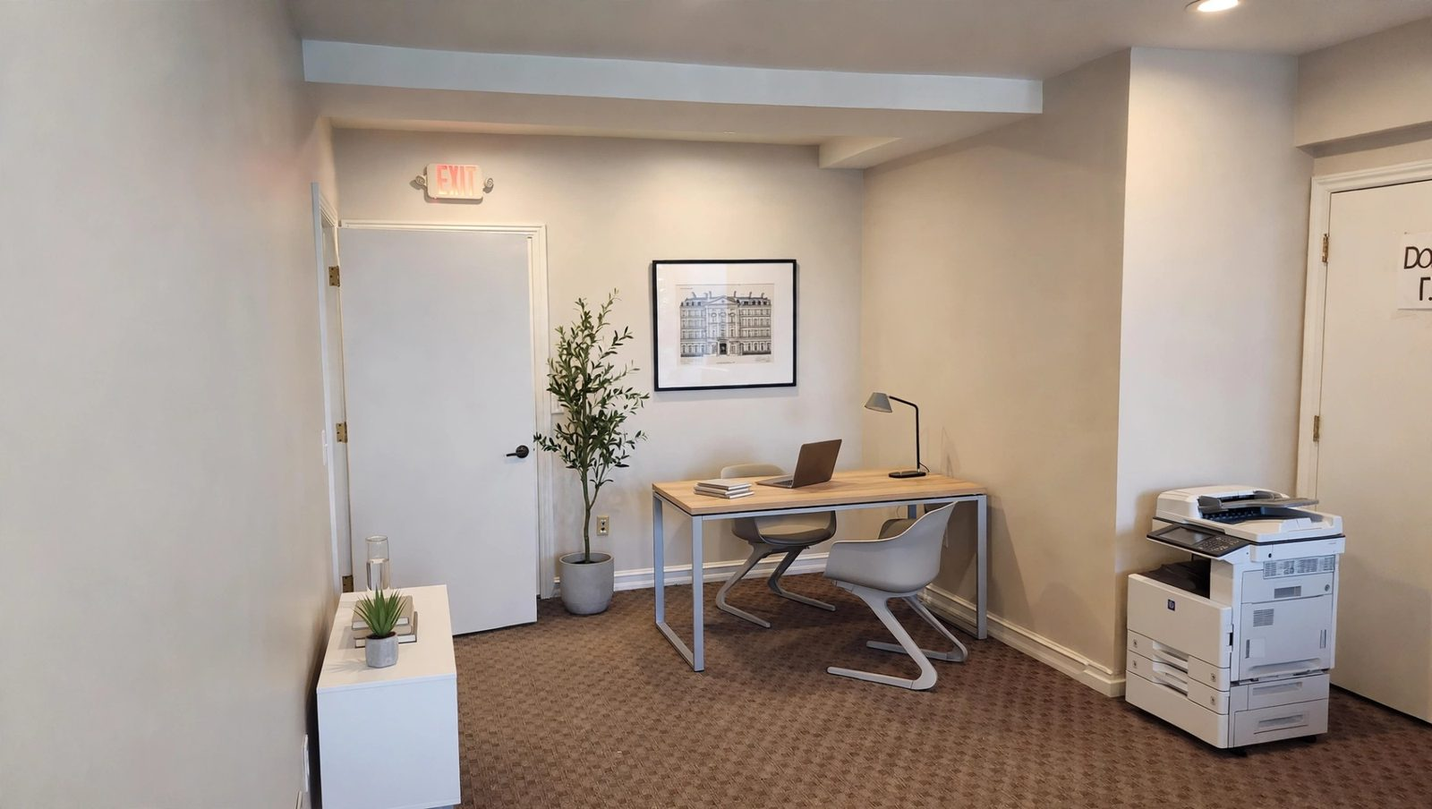
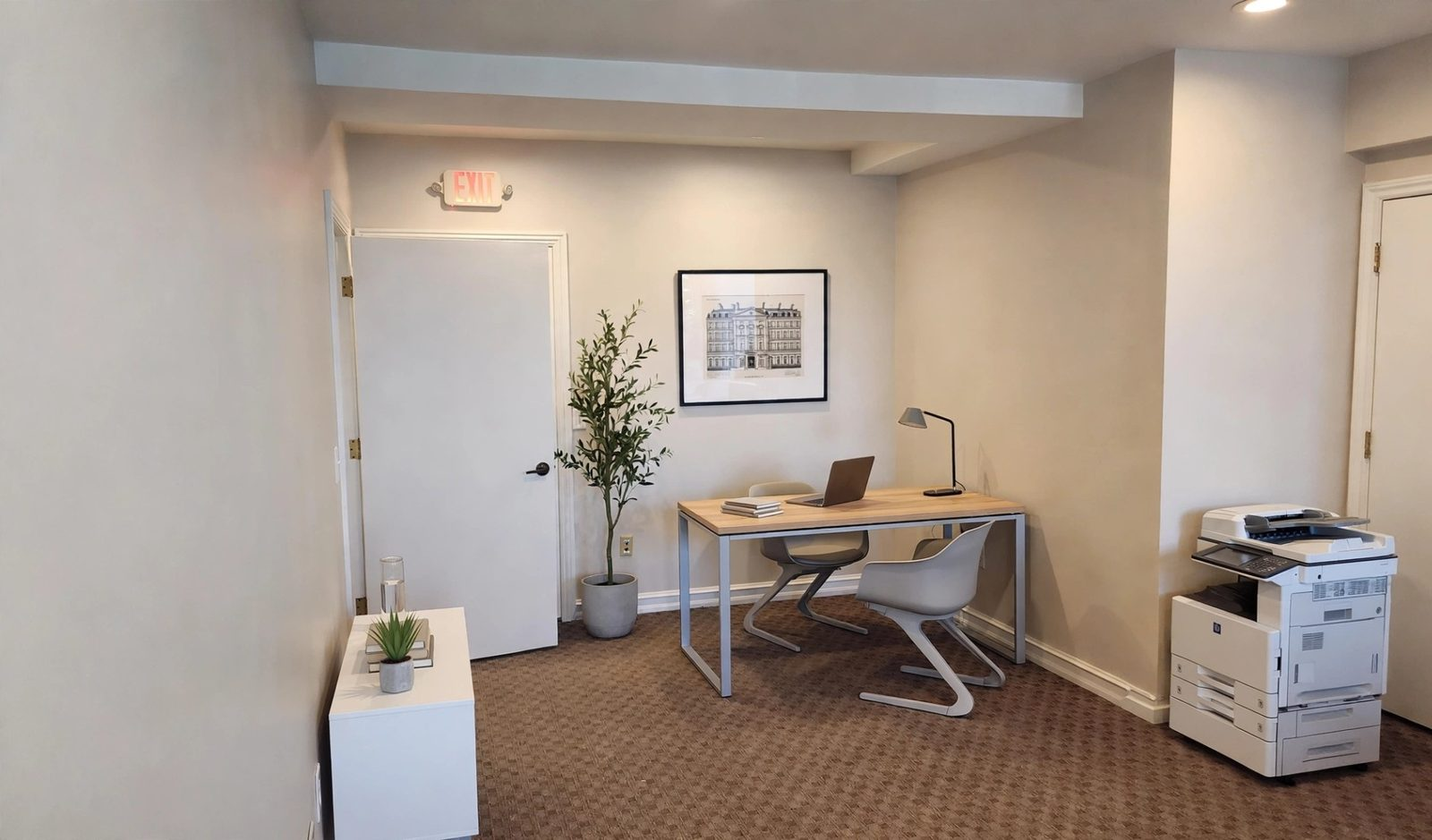
Update live site files

diff --git a/suite-101/index.html b/suite-101/index.html
@@ -22,7 +22,7 @@
   <link rel="icon" type="image/png" sizes="32x32" href="../assets/favicon.png">
   <link rel="icon" type="image/png" sizes="192x192" href="../assets/favicon-192.png">
   <link rel="apple-touch-icon" href="../assets/apple-touch-icon.png">
-  <link rel="stylesheet" href="../styles.css?v=f8975330">
+  <link rel="stylesheet" href="../styles.css?v=e3018876">
   <script type="application/ld+json">{"@context":"https://schema.org","@type":"BreadcrumbList","itemListElement":[{"@type":"ListItem","position":1,"name":"Home","item":"https://centralerealty.com/"},{"@type":"ListItem","position":2,"name":"Suite 101 Office Space For Lease","item":"https://centralerealty.com/suite-101/"}]}</script>
   <style>.prose{max-width:1100px}.s101-vids{margin:1rem 0 2rem}.s101-vids figure{margin:0 0 2rem}.s101-vids video{display:block;width:100%;height:auto;aspect-ratio:16/9;background:#000}.s101-vids figcaption{text-align:center;color:var(--muted);font-size:.85rem;margin-top:.6rem}</style>
   <script type="application/ld+json">{"@context":"https://schema.org","@type":"RealEstateListing","name":"Suite 101 Office Space For Lease, 2490 Walton Boulevard, Rochester Hills","url":"https://centralerealty.com/suite-101/","description":"956 sq ft lower-level office/medical suite for lease at 2490 Walton Boulevard, Rochester Hills, Michigan. Modified gross lease.","image":"https://centralerealty.com/assets/images/suite-101-building-wide.jpg"}</script>
@@ -40,7 +40,7 @@
     </div>
   </header>
   <main id="main">
-    <section class="hero page-hero" aria-labelledby="page-title"><div class="slides" data-n="16"><img src="../assets/images/suite-101-building-wide.jpg" alt="Two-storey brick and stone office building at 2490 Walton Boulevard" width="1600" height="686" fetchpriority="high"><img src="../assets/images/suite-101-staged-rh-desks.jpg" alt="Suite 101 open workspace, virtually staged with oak desks and a lounge area; furniture not included" width="1600" height="686" loading="lazy"><img src="../assets/images/suite-101-photo-1.jpg" alt="Suite 101 open workspace" width="1600" height="686" loading="lazy"><img src="../assets/images/suite-101-staged-boucle.jpg" alt="Suite 101 open workspace, virtually staged as a meeting area; furniture not included" width="1600" height="686" loading="lazy"><img src="../assets/images/suite-101-photo-3.jpg" alt="Suite 101 main room" width="1600" height="686" loading="lazy"><img src="../assets/images/suite-101-staged-leather.jpg" alt="Suite 101 open workspace, virtually staged with a conference table; furniture not included" width="1600" height="686" loading="lazy"><img src="../assets/images/suite-101-photo-5.jpg" alt="French doors opening to a carpeted conference room in Suite 101" width="1600" height="686" loading="lazy"><img src="../assets/images/suite-101-staged-conference.jpg" alt="Suite 101 conference room, virtually staged with a table and chairs; furniture not included" width="1600" height="686" loading="lazy"><img src="../assets/images/suite-101-photo-4.jpg" alt="Suite 101 back wall with built-in shelving and an exterior door" width="1600" height="686" loading="lazy"><img src="../assets/images/suite-101-staged-shell.jpg" alt="Suite 101 open workspace, virtually staged with a round table; furniture not included" width="1600" height="686" loading="lazy"><img src="../assets/images/suite-101-photo-7.jpg" alt="Suite 101 built-in counter with a view toward the hallway" width="1600" height="686" loading="lazy"><img src="../assets/images/suite-101-staged-whitetable.jpg" alt="Suite 101 main room by the stone accent wall, virtually staged with a round table; furniture not included" width="1600" height="686" loading="lazy"><img src="../assets/images/suite-101-photo-6.jpg" alt="Suite 101 hallway with French doors to a conference room" width="1600" height="686" loading="lazy"><img src="../assets/images/suite-101-staged-exitdoor.jpg" alt="Suite 101 open workspace by the exterior door, virtually staged with a round table and counter seating; furniture not included" width="1600" height="686" loading="lazy"><img src="../assets/images/suite-101-photo-8.jpg" alt="Carpeted private office in Suite 101 with an exit door" width="1600" height="686" loading="lazy"><img src="../assets/images/suite-101-staged-office.jpg" alt="Suite 101 private office, virtually staged with a desk and chairs; furniture not included" width="1600" height="686" loading="lazy"></div><span class="stg-tag" style="animation-name:stgfade16;animation-duration:64s;animation-delay:4s">Staged &ndash; Furniture not included</span><span class="stg-tag" style="animation-name:stgfade16;animation-duration:64s;animation-delay:12s">Staged &ndash; Furniture not included</span><span class="stg-tag" style="animation-name:stgfade16;animation-duration:64s;animation-delay:20s">Staged &ndash; Furniture not included</span><span class="stg-tag" style="animation-name:stgfade16;animation-duration:64s;animation-delay:28s">Staged &ndash; Furniture not included</span><span class="stg-tag" style="animation-name:stgfade16;animation-duration:64s;animation-delay:36s">Staged &ndash; Furniture not included</span><span class="stg-tag" style="animation-name:stgfade16;animation-duration:64s;animation-delay:44s">Staged &ndash; Furniture not included</span><span class="stg-tag" style="animation-name:stgfade16;animation-duration:64s;animation-delay:52s">Staged &ndash; Furniture not included</span><span class="stg-tag" style="animation-name:stgfade16;animation-duration:64s;animation-delay:60s">Staged &ndash; Furniture not included</span><div class="hero-copy"><h1 id="page-title">Suite 101 <em>For Lease</em></h1></div></section>
+    <section class="hero page-hero" aria-labelledby="page-title"><div class="slides" data-n="7"><img src="../assets/images/suite-101-staged-boucle.jpg" alt="Suite 101 open workspace, virtually staged as a meeting area; furniture not included" width="1600" height="686" fetchpriority="high"><img src="../assets/images/suite-101-staged-conference.jpg" alt="Suite 101 conference room, virtually staged with a table and chairs; furniture not included" width="1600" height="686" loading="lazy"><img src="../assets/images/suite-101-staged-leather.jpg" alt="Suite 101 open workspace, virtually staged with a conference table; furniture not included" width="1600" height="686" loading="lazy"><img src="../assets/images/suite-101-staged-office.jpg" alt="Suite 101 private office, virtually staged with a desk and chairs; furniture not included" width="1600" height="686" loading="lazy"><img src="../assets/images/suite-101-staged-shell.jpg" alt="Suite 101 open workspace, virtually staged with a round table; furniture not included" width="1600" height="686" loading="lazy"><img src="../assets/images/suite-101-staged-exitdoor.jpg" alt="Suite 101 open workspace by the exterior door, virtually staged with a round table and counter seating; furniture not included" width="1600" height="686" loading="lazy"><img src="../assets/images/suite-101-staged-whitetable.jpg" alt="Suite 101 main room by the stone accent wall, virtually staged with a round table; furniture not included" width="1600" height="686" loading="lazy"></div><span class="stg-tag" style="animation-name:stgfade7;animation-duration:35s;animation-delay:0s">Staged &ndash; Furniture not included</span><span class="stg-tag" style="animation-name:stgfade7;animation-duration:35s;animation-delay:5s">Staged &ndash; Furniture not included</span><span class="stg-tag" style="animation-name:stgfade7;animation-duration:35s;animation-delay:10s">Staged &ndash; Furniture not included</span><span class="stg-tag" style="animation-name:stgfade7;animation-duration:35s;animation-delay:15s">Staged &ndash; Furniture not included</span><span class="stg-tag" style="animation-name:stgfade7;animation-duration:35s;animation-delay:20s">Staged &ndash; Furniture not included</span><span class="stg-tag" style="animation-name:stgfade7;animation-duration:35s;animation-delay:25s">Staged &ndash; Furniture not included</span><span class="stg-tag" style="animation-name:stgfade7;animation-duration:35s;animation-delay:30s">Staged &ndash; Furniture not included</span><div class="hero-copy"><h1 id="page-title">Suite 101 <em>For Lease</em></h1></div></section>
     <section class="page-body">
       <div class="wrap"><div class="prose">
       <div class="lst-top lst-center"><div><span class="lst-tag">For Lease &middot; Office / Medical</span><p class="lst-price">Call for Pricing</p><p class="lst-sub">Suite 101 &middot; 956 sq ft &middot; Lower level &middot; 2490 Walton Boulevard, Rochester Hills</p></div><div class="lst-actions"><a class="btn btn-solid" href="tel:+12486568830">Call (248) 656-8830</a><a class="btn" href="mailto:vlrandaz@centralerealty.com?subject=Suite%20101%20-%202490%20Walton%20Blvd">Email About Suite 101</a></div></div><p class="lst-back"><a class="btn" href="../2490/">&larr; View All Available Office Space</a></p><p>Prime lower-level office space now leasing in a two-storey brick and stone building on the northeast corner of Walton Boulevard and Brewster Road. Suite 101 offers an office, a conference room and an open workspace area, with ample free parking and quick access to I-75 and M-59.</p><h2>Floor <em>Plans</em></h2><figure class="plan plan-wide"><h3>Staged 3D Plan</h3><a class="cover-none" href="../assets/images/suite-101-3d-plan.jpg"><img src="../assets/images/suite-101-3d-plan.jpg" alt="Staged 3D plan of Suite 101 showing a furnished office layout" width="1600" height="836" loading="lazy"></a><figcaption>Staged 3D plan (tap to enlarge). Virtual staging; furniture shown for illustration only, layout approximate and not to scale.</figcaption></figure><figure class="plan plan-wide"><h3>Floor Plan</h3><a href="../assets/images/suite-101-floor-plan.jpg"><img src="../assets/images/suite-101-floor-plan.jpg" alt="Suite 101 floor plan, 956 square feet: office, conference room and workspace area" width="955" height="738" loading="lazy"></a><figcaption>Suite 101, 956 sq ft: office, conference room and open workspace area (tap to enlarge).</figcaption></figure><ul class="lst-facts"><li><b>956</b><span>Square Feet</span></li><li><b>Call</b><span>For Pricing</span></li><li><b>2 Years</b><span>Minimum Term</span></li><li><b>Office</b><span>Or Medical Use</span></li><li><b>Free</b><span>On-Site Parking</span></li><li><b>I-75 &amp; M-59</b><span>Easy Access</span></li></ul><h2>Property <em>Highlights</em></h2><ul class="lst-hi"><li><b>Prime exposure</b> at the northeast corner of Walton Boulevard and Brewster Road</li><li><b>Easy access to I-75 and M-59</b> freeways</li><li><b>Minutes from the Village of Rochester Hills</b> and Downtown Rochester</li><li><b>Close proximity to Oakland University</b></li><li><b>Ample free on-site parking</b></li><li><b>Near Henry Ford (Crittenton) Hospital</b></li><li><b>Suitable for medical, engineering, professional or administrative use</b></li></ul><div class="lst-figs lst-uniform"><figure><img src="../assets/images/suite-101-building.jpg" alt="Two-storey brick and stone office building at 2490 Walton Boulevard" width="960" height="540" loading="lazy"><figcaption>The building at 2490 Walton Boulevard.</figcaption></figure><figure><img src="../assets/images/suite-101-photo-1.jpg" alt="Suite 101 open workspace with stone feature wall and built-in counter" width="960" height="540" loading="lazy"><figcaption>Open workspace area.</figcaption></figure></div><h2>Take a Look <em>Inside</em></h2><div class="lst-figs lst-uniform"><figure><img src="../assets/images/suite-101-photo-3.jpg" alt="Suite 101 main room with stone accent wall and closet" width="960" height="540" loading="lazy"><figcaption>Main room.</figcaption></figure><figure><img src="../assets/images/suite-101-photo-4.jpg" alt="Suite 101 back wall with built-in shelving and an exterior door" width="960" height="540" loading="lazy"><figcaption>Built-in shelving and exterior door.</figcaption></figure><figure><img src="../assets/images/suite-101-photo-5.jpg" alt="French doors opening to a carpeted conference room in Suite 101" width="960" height="540" loading="lazy"><figcaption>French doors to the conference room.</figcaption></figure><figure><img src="../assets/images/suite-101-photo-6.jpg" alt="Suite 101 hallway with French doors to a conference room" width="960" height="540" loading="lazy"><figcaption>Hallway and French doors.</figcaption></figure><figure><img src="../assets/images/suite-101-photo-7.jpg" alt="Suite 101 built-in counter with a view toward the hallway" width="960" height="540" loading="lazy"><figcaption>Built-in counter.</figcaption></figure><figure><img src="../assets/images/suite-101-photo-8.jpg" alt="Carpeted private office in Suite 101 with an exit door" width="960" height="540" loading="lazy"><figcaption>Private office.</figcaption></figure></div><h2>Walkthrough <em>Videos</em></h2><div class="s101-vids"><figure><video controls preload="metadata" playsinline poster="../assets/images/suite-101-video-1-poster.jpg"><source src="../assets/video/suite-101-walkthrough-1.mp4" type="video/mp4">Your browser does not support video.</video><figcaption>Walkthrough, part 1.</figcaption></figure><figure><video controls preload="metadata" playsinline poster="../assets/images/suite-101-video-2-poster.jpg"><source src="../assets/video/suite-101-walkthrough-2-stable.mp4" type="video/mp4">Your browser does not support video.</video><figcaption>Walkthrough, part 2.</figcaption></figure></div><h2>Lease <em>Details</em></h2><table class="lst-dt"><tr><th scope="row">Suite</th><td>101 (lower level)</td></tr><tr><th scope="row">Size</th><td>956 rentable sq ft</td></tr><tr><th scope="row">Use</th><td>Office / Medical</td></tr><tr><th scope="row">Lease Type</th><td>Modified gross lease</td></tr><tr><th scope="row">Minimum Term</th><td>2 years</td></tr><tr><th scope="row">Tenant Pays</th><td>Gas &amp; electric, cable/internet, quarterly maintenance fee (CAM)</td></tr><tr><th scope="row">Remodeled</th><td>2002&ndash;2026</td></tr><tr><th scope="row">Parking</th><td>Ample free on-site parking</td></tr></table><h2><em>Pricing</em></h2><p>Rates and move-in costs are available on request. Call <a href="tel:+12486568830">(248) 656-8830</a> or email <a href="mailto:vlrandaz@centralerealty.com">vlrandaz@centralerealty.com</a>.</p><h2>Directions</h2><p>2490 Walton Boulevard, Rochester Hills, MI 48309, at the northeast corner of Walton Boulevard and Brewster Road. <a href="https://www.google.com/maps/dir/?api=1&amp;destination=2490+Walton+Blvd+Rochester+Hills+MI+48309" target="_blank" rel="noopener">Get directions<span class="sr"> (opens in a new tab)</span></a></p><h2>Arrange a <em>Private Viewing</em></h2><p>Contact Vito L. Randazzo, Associate Broker: office <a href="tel:+12486568830">(248) 656-8830</a>, direct <a href="tel:+12483883473">(248) 388-3473</a>, or <a href="mailto:vlrandaz@centralerealty.com">vlrandaz@centralerealty.com</a>.</p><p class="lst-disc">Information deemed reliable but not guaranteed and subject to change without notice. Equal Housing Opportunity.</p>

diff --git a/contact-us/index.html b/contact-us/index.html
@@ -22,7 +22,7 @@
   <link rel="icon" type="image/png" sizes="32x32" href="../assets/favicon.png">
   <link rel="icon" type="image/png" sizes="192x192" href="../assets/favicon-192.png">
   <link rel="apple-touch-icon" href="../assets/apple-touch-icon.png">
-  <link rel="stylesheet" href="../styles.css?v=f8975330">
+  <link rel="stylesheet" href="../styles.css?v=e3018876">
   <script type="application/ld+json">{"@context":"https://schema.org","@type":"BreadcrumbList","itemListElement":[{"@type":"ListItem","position":1,"name":"Home","item":"https://centralerealty.com/"},{"@type":"ListItem","position":2,"name":"Contact Us","item":"https://centralerealty.com/contact-us/"}]}</script>
   <script type="application/ld+json">{"@context":"https://schema.org","@type":"FAQPage","mainEntity":[{"@type":"Question","name":"Where is Centrale Realty located?","acceptedAnswer":{"@type":"Answer","text":"Our office is at 2490 Walton Boulevard, Suite 103, Rochester Hills, Michigan 48309."}},{"@type":"Question","name":"What areas do you serve?","acceptedAnswer":{"@type":"Answer","text":"We have served the Metro Detroit area since 1984, with properties in Rochester Hills, Auburn Hills, Shelby Township, Chesterfield Township, Macomb Township, Troy, Birmingham, Royal Oak and Sterling Heights."}},{"@type":"Question","name":"What services do you offer?","acceptedAnswer":{"@type":"Answer","text":"Residential and commercial sales, leasing, vacant land and construction services, with representation for buyers, sellers and tenants."}},{"@type":"Question","name":"How do I schedule a consultation?","acceptedAnswer":{"@type":"Answer","text":"Call (248) 656-8830 or email info@centralerealty.com and one of our agents will be in touch."}},{"@type":"Question","name":"Do you build homes?","acceptedAnswer":{"@type":"Answer","text":"We build spec homes and list them for sale once they are complete. Our homes are built by our affiliates, L&R Homes Inc and Town Properties LLC."}},{"@type":"Question","name":"Do you handle rentals?","acceptedAnswer":{"@type":"Answer","text":"Yes. We specialize in rentals across Metro Detroit, from corporate housing in Rochester Hills to duplexes and townhomes in Shelby Township and Chesterfield Township."}}]}</script>
 </head>

diff --git a/styles.css b/styles.css
@@ -345,3 +345,8 @@ address{font-style:normal}
 .slides[data-n="16"] img:nth-child(2){animation-delay:4s}.slides[data-n="16"] img:nth-child(3){animation-delay:8s}.slides[data-n="16"] img:nth-child(4){animation-delay:12s}.slides[data-n="16"] img:nth-child(5){animation-delay:16s}.slides[data-n="16"] img:nth-child(6){animation-delay:20s}.slides[data-n="16"] img:nth-child(7){animation-delay:24s}.slides[data-n="16"] img:nth-child(8){animation-delay:28s}.slides[data-n="16"] img:nth-child(9){animation-delay:32s}.slides[data-n="16"] img:nth-child(10){animation-delay:36s}.slides[data-n="16"] img:nth-child(11){animation-delay:40s}.slides[data-n="16"] img:nth-child(12){animation-delay:44s}.slides[data-n="16"] img:nth-child(13){animation-delay:48s}.slides[data-n="16"] img:nth-child(14){animation-delay:52s}.slides[data-n="16"] img:nth-child(15){animation-delay:56s}.slides[data-n="16"] img:nth-child(16){animation-delay:60s}
 @keyframes slidefade16{0%{opacity:0;transform:scale(1)}1.25%{opacity:1}6.09%{opacity:1;transform:scale(1.08)}7.34%{opacity:0;transform:scale(1.08)}100%{opacity:0;transform:scale(1)}}
 @keyframes stgfade16{0%{opacity:0}1.25%{opacity:1}6.09%{opacity:1}7.34%{opacity:0}100%{opacity:0}}
+/* 7-slide show (Suite 101, staged only): 5s slot per slide in a 35s cycle */
+.slides[data-n="7"] img{animation-name:slidefade7;animation-duration:35s}
+.slides[data-n="7"] img:nth-child(2){animation-delay:5s}.slides[data-n="7"] img:nth-child(3){animation-delay:10s}.slides[data-n="7"] img:nth-child(4){animation-delay:15s}.slides[data-n="7"] img:nth-child(5){animation-delay:20s}.slides[data-n="7"] img:nth-child(6){animation-delay:25s}.slides[data-n="7"] img:nth-child(7){animation-delay:30s}
+@keyframes slidefade7{0%{opacity:0;transform:scale(1)}2.86%{opacity:1}13.71%{opacity:1;transform:scale(1.08)}16.57%{opacity:0;transform:scale(1.08)}100%{opacity:0;transform:scale(1)}}
+@keyframes stgfade7{0%{opacity:0}2.86%{opacity:1}13.71%{opacity:1}16.57%{opacity:0}100%{opacity:0}}

diff --git a/2490/index.html b/2490/index.html
@@ -22,7 +22,7 @@
   <link rel="icon" type="image/png" sizes="32x32" href="../assets/favicon.png">
   <link rel="icon" type="image/png" sizes="192x192" href="../assets/favicon-192.png">
   <link rel="apple-touch-icon" href="../assets/apple-touch-icon.png">
-  <link rel="stylesheet" href="../styles.css?v=f8975330">
+  <link rel="stylesheet" href="../styles.css?v=e3018876">
   <script type="application/ld+json">{"@context":"https://schema.org","@type":"BreadcrumbList","itemListElement":[{"@type":"ListItem","position":1,"name":"Home","item":"https://centralerealty.com/"},{"@type":"ListItem","position":2,"name":"Office Space For Lease","item":"https://centralerealty.com/2490/"}]}</script>
   <style>.prose{max-width:1100px}.sp-grid{display:grid;grid-template-columns:repeat(auto-fit,minmax(380px,1fr));gap:24px;margin:2rem 0}.sp-card{display:flex;flex-direction:column;background:#fff;border:1px solid var(--line);border-top:2px solid var(--gold);text-decoration:none;color:inherit;transition:box-shadow .25s}.sp-card:hover{box-shadow:0 10px 30px rgba(0,0,0,.12)}.sp-card img{width:100%;aspect-ratio:16/10;object-fit:cover;display:block}.sp-body{padding:1.4rem 1.5rem 1.6rem;display:flex;flex-direction:column;gap:.35rem;flex:1}.sp-body h2{margin:0;font-size:1.7rem}.sp-meta{font:500 .72rem/1.4 var(--sans);letter-spacing:.24em;text-transform:uppercase;color:var(--gold-deep)}.sp-rent{font:400 1.9rem/1.1 var(--serif);color:var(--gold-deep);margin:.3rem 0}.sp-body p{margin:0 0 .8rem;font-size:.97rem;line-height:1.6}.sp-more{margin-top:auto;font:500 .78rem/1 var(--sans);letter-spacing:.22em;text-transform:uppercase;border-bottom:1px solid var(--gold);align-self:flex-start;padding-bottom:.45rem}</style>
 </head>

diff --git a/index.html b/index.html
@@ -23,7 +23,7 @@
   <link rel="icon" type="image/png" sizes="32x32" href="assets/favicon.png">
   <link rel="icon" type="image/png" sizes="192x192" href="assets/favicon-192.png">
   <link rel="apple-touch-icon" href="assets/apple-touch-icon.png">
-  <link rel="stylesheet" href="styles.css?v=f8975330">
+  <link rel="stylesheet" href="styles.css?v=e3018876">
   <script type="application/ld+json">{"@context":"https://schema.org","@graph":[{"@type":"RealEstateAgent","@id":"https://centralerealty.com/#organization","name":"Centrale Realty, Inc.","url":"https://centralerealty.com/","telephone":"+1-248-656-8830","faxNumber":"+1-248-694-9344","email":"info@centralerealty.com","foundingDate":"1984","hasMap":"https://www.google.com/maps/search/?api=1&query=2490+Walton+Blvd+Ste+103+Rochester+Hills+MI+48309","image":"https://centralerealty.com/assets/images/og-image.jpg","logo":"https://centralerealty.com/assets/logo-cr-gold.png","address":{"@type":"PostalAddress","streetAddress":"2490 Walton Boulevard, Ste 103","addressLocality":"Rochester Hills","addressRegion":"MI","postalCode":"48309","addressCountry":"US"},"areaServed":["Metro Detroit, MI","Oakland County, MI","Macomb County, MI"]},{"@type":"WebSite","@id":"https://centralerealty.com/#website","url":"https://centralerealty.com/","name":"Centrale Realty, Inc.","publisher":{"@id":"https://centralerealty.com/#organization"}}]}</script>
 </head>
 <body class="home">

diff --git a/properties/grand-blanc-land/index.html b/properties/grand-blanc-land/index.html
@@ -22,7 +22,7 @@
   <link rel="icon" type="image/png" sizes="32x32" href="../../assets/favicon.png">
   <link rel="icon" type="image/png" sizes="192x192" href="../../assets/favicon-192.png">
   <link rel="apple-touch-icon" href="../../assets/apple-touch-icon.png">
-  <link rel="stylesheet" href="../../styles.css?v=f8975330">
+  <link rel="stylesheet" href="../../styles.css?v=e3018876">
   <script type="application/ld+json">{"@context":"https://schema.org","@type":"BreadcrumbList","itemListElement":[{"@type":"ListItem","position":1,"name":"Home","item":"https://centralerealty.com/"},{"@type":"ListItem","position":2,"name":"7.79 Acres for Sale in Grand Blanc Township","item":"https://centralerealty.com/properties/grand-blanc-land/"}]}</script>
   <script type="application/ld+json">{"@context":"https://schema.org","@type":"RealEstateListing","name":"7.79 Acres of Prime Development Land, Grand Blanc Township","url":"https://centralerealty.com/properties/grand-blanc-land/","description":"7.79 acres of residential and site condo development land on S. Saginaw Street (M-54), Grand Blanc Township, Genesee County, Michigan, with water and sewer available at the street.","image":"https://centralerealty.com/assets/images/gb-aerial.jpg","offers":{"@type":"Offer","price":"699000","priceCurrency":"USD","availability":"https://schema.org/InStock"}}</script>
 </head>

diff --git a/suite-100/index.html b/suite-100/index.html
@@ -22,7 +22,7 @@
   <link rel="icon" type="image/png" sizes="32x32" href="../assets/favicon.png">
   <link rel="icon" type="image/png" sizes="192x192" href="../assets/favicon-192.png">
   <link rel="apple-touch-icon" href="../assets/apple-touch-icon.png">
-  <link rel="stylesheet" href="../styles.css?v=f8975330">
+  <link rel="stylesheet" href="../styles.css?v=e3018876">
   <script type="application/ld+json">{"@context":"https://schema.org","@type":"BreadcrumbList","itemListElement":[{"@type":"ListItem","position":1,"name":"Home","item":"https://centralerealty.com/"},{"@type":"ListItem","position":2,"name":"Suite 100 Office Space For Lease","item":"https://centralerealty.com/suite-100/"}]}</script>
   <style>.prose{max-width:1100px}</style>
   <script type="application/ld+json">{"@context":"https://schema.org","@type":"RealEstateListing","name":"Suite 100 Office Space For Lease, 2490 Walton Boulevard, Rochester Hills","url":"https://centralerealty.com/suite-100/","description":"725 sq ft lower-level office/medical suite for lease at 2490 Walton Boulevard, Rochester Hills, Michigan. Modified gross lease.","image":"https://centralerealty.com/assets/images/suite-101-building-wide.jpg"}</script>

diff --git a/commercial-space/index.html b/commercial-space/index.html
@@ -22,7 +22,7 @@
   <link rel="icon" type="image/png" sizes="32x32" href="../assets/favicon.png">
   <link rel="icon" type="image/png" sizes="192x192" href="../assets/favicon-192.png">
   <link rel="apple-touch-icon" href="../assets/apple-touch-icon.png">
-  <link rel="stylesheet" href="../styles.css?v=f8975330">
+  <link rel="stylesheet" href="../styles.css?v=e3018876">
   <script type="application/ld+json">{"@context":"https://schema.org","@type":"BreadcrumbList","itemListElement":[{"@type":"ListItem","position":1,"name":"Home","item":"https://centralerealty.com/"},{"@type":"ListItem","position":2,"name":"Commercial Space in Rochester Hills & Auburn Hills","item":"https://centralerealty.com/commercial-space/"}]}</script>
 </head>
 <body class="inner overlay">

diff --git a/construction-services/index.html b/construction-services/index.html
@@ -22,7 +22,7 @@
   <link rel="icon" type="image/png" sizes="32x32" href="../assets/favicon.png">
   <link rel="icon" type="image/png" sizes="192x192" href="../assets/favicon-192.png">
   <link rel="apple-touch-icon" href="../assets/apple-touch-icon.png">
-  <link rel="stylesheet" href="../styles.css?v=f8975330">
+  <link rel="stylesheet" href="../styles.css?v=e3018876">
   <script type="application/ld+json">{"@context":"https://schema.org","@type":"BreadcrumbList","itemListElement":[{"@type":"ListItem","position":1,"name":"Home","item":"https://centralerealty.com/"},{"@type":"ListItem","position":2,"name":"Construction Services","item":"https://centralerealty.com/construction-services/"}]}</script>
 </head>
 <body class="inner overlay">

diff --git a/for-sale/index.html b/for-sale/index.html
@@ -22,7 +22,7 @@
   <link rel="icon" type="image/png" sizes="32x32" href="../assets/favicon.png">
   <link rel="icon" type="image/png" sizes="192x192" href="../assets/favicon-192.png">
   <link rel="apple-touch-icon" href="../assets/apple-touch-icon.png">
-  <link rel="stylesheet" href="../styles.css?v=f8975330">
+  <link rel="stylesheet" href="../styles.css?v=e3018876">
   <script type="application/ld+json">{"@context":"https://schema.org","@type":"BreadcrumbList","itemListElement":[{"@type":"ListItem","position":1,"name":"Home","item":"https://centralerealty.com/"},{"@type":"ListItem","position":2,"name":"Homes For Sale in Metro Detroit","item":"https://centralerealty.com/for-sale/"}]}</script>
 </head>
 <body class="inner overlay">

diff --git a/for-lease/index.html b/for-lease/index.html
@@ -22,7 +22,7 @@
   <link rel="icon" type="image/png" sizes="32x32" href="../assets/favicon.png">
   <link rel="icon" type="image/png" sizes="192x192" href="../assets/favicon-192.png">
   <link rel="apple-touch-icon" href="../assets/apple-touch-icon.png">
-  <link rel="stylesheet" href="../styles.css?v=f8975330">
+  <link rel="stylesheet" href="../styles.css?v=e3018876">
   <script type="application/ld+json">{"@context":"https://schema.org","@type":"BreadcrumbList","itemListElement":[{"@type":"ListItem","position":1,"name":"Home","item":"https://centralerealty.com/"},{"@type":"ListItem","position":2,"name":"Rentals in Metro Detroit","item":"https://centralerealty.com/for-lease/"}]}</script>
 </head>
 <body class="inner overlay">

diff --git a/terms-of-use/index.html b/terms-of-use/index.html
@@ -22,7 +22,7 @@
   <link rel="icon" type="image/png" sizes="32x32" href="../assets/favicon.png">
   <link rel="icon" type="image/png" sizes="192x192" href="../assets/favicon-192.png">
   <link rel="apple-touch-icon" href="../assets/apple-touch-icon.png">
-  <link rel="stylesheet" href="../styles.css?v=f8975330">
+  <link rel="stylesheet" href="../styles.css?v=e3018876">
   <script type="application/ld+json">{"@context":"https://schema.org","@type":"BreadcrumbList","itemListElement":[{"@type":"ListItem","position":1,"name":"Home","item":"https://centralerealty.com/"},{"@type":"ListItem","position":2,"name":"Terms of Use","item":"https://centralerealty.com/terms-of-use/"}]}</script>
 </head>
 <body class="inner overlay">
